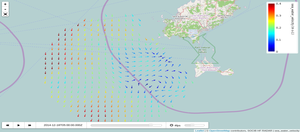
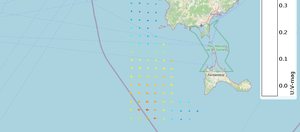
docs(examples): port example 3 (HF radar) to ncWMS2
SOCIB THREDDS runs ncWMS2: the `sea_water_velocity` layer and the
`prettyvec/*` styles return HTTP 400. Use the `U:V-group` vector layer
with the `colored_sized_arrows/rainbow` style, write the legend request
in ncWMS2 syntax and drop the proxy (THREDDS sends CORS headers).
Refresh the index thumbnail.

diff --git a/examples/js/example3.js b/examples/js/example3.js
@@ -29,21 +29,17 @@ L.tileLayer('https://{s}.tile.osm.org/{z}/{x}/{y}.png', {
 
 var testWMS = "https://thredds.socib.es/thredds/wms/observational/hf_radar/hf_radar_ibiza-scb_codarssproc001_L1_agg/hf_radar_ibiza-scb_codarssproc001_L1_agg_best.ncd"
 var testLayer = L.tileLayer.wms(testWMS, {
-    layers: 'sea_water_velocity',
+    layers: 'U:V-group',
     version: '1.3.0',
     format: 'image/png',
     transparent: true,
-    styles: 'prettyvec/rainbow',
-    markerscale: 15,
-    markerspacing: 10,
+    styles: 'colored_sized_arrows/rainbow',
     abovemaxcolor: "extend",
     belowmincolor: "extend",
     colorscalerange: "0,0.4",
-    attribution: 'SOCIB HF RADAR | sea_water_velocity'
+    attribution: 'SOCIB HF Radar'
 });
-var proxy = 'server/proxy.php';
 var testTimeLayer = L.timeDimension.layer.wms(testLayer, {
-    proxy: proxy,
     updateTimeDimension: true
 });
 testTimeLayer.addTo(map);
@@ -52,7 +48,7 @@ var testLegend = L.control({
     position: 'topright'
 });
 testLegend.onAdd = function(map) {
-    var src = testWMS + "?SERVICE=WMS&VERSION=1.3.0&REQUEST=GetLegendGraphic&LAYER=sea_water_velocity&PALETTE=rainbow&colorscalerange=0,0.4";
+    var src = testWMS + "?SERVICE=WMS&VERSION=1.1.1&REQUEST=GetLegendGraphic&LAYERS=U:V-group&STYLES=colored_sized_arrows/rainbow&COLORSCALERANGE=0,0.4&FORMAT=image/png";
     var div = L.DomUtil.create('div', 'info legend');
     div.innerHTML +=
         '<img src="' + src + '" alt="legend">';
